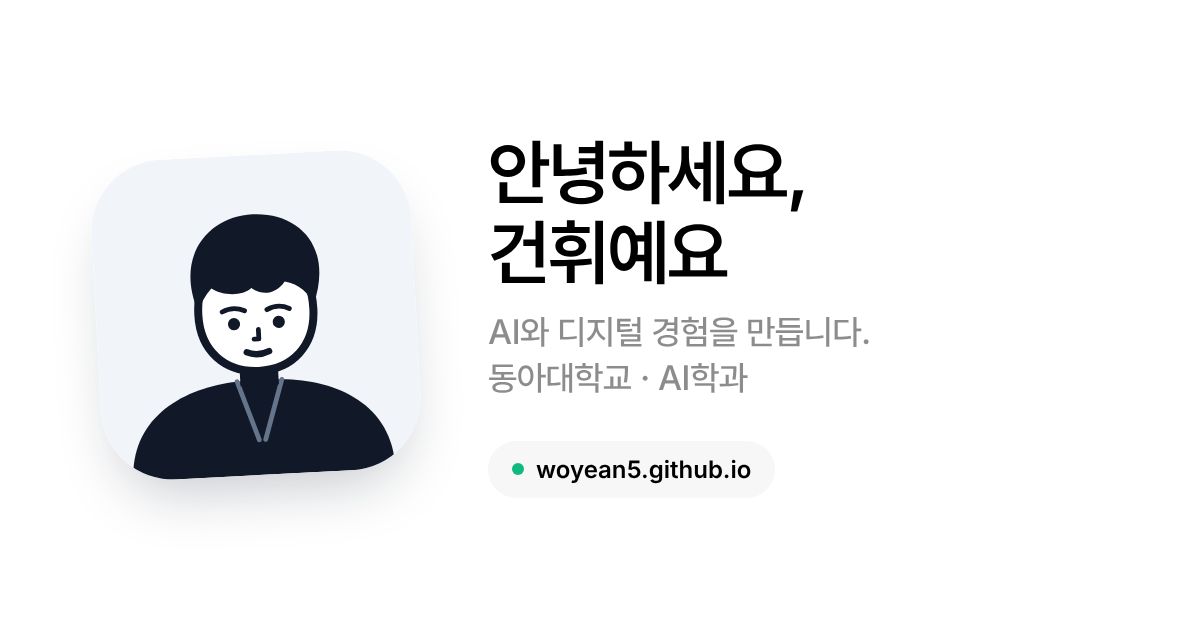
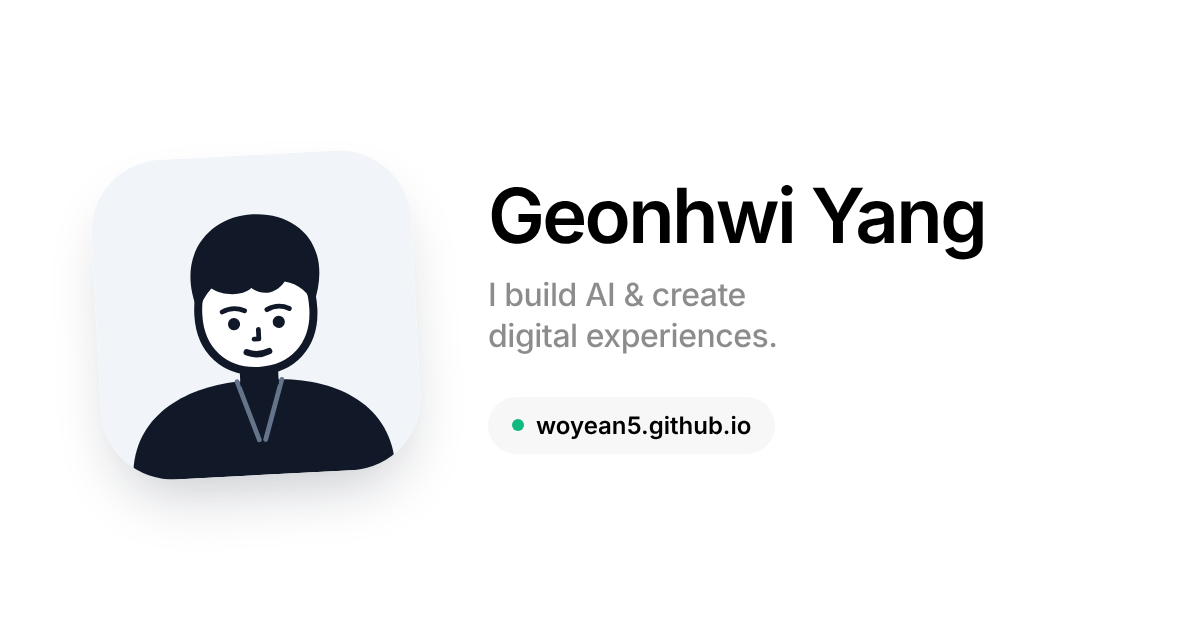
Restore the English link preview for the main page
Claude-Session: https://claude.ai/code/session_012kBGn4mQwwsHadXgffSdPU

Changed region(s): [[0.4008, 0.2111, 0.8325, 0.6333], [0.4317, 0.7238, 0.6475, 0.7841], [0.4317, 0.6635, 0.6475, 0.6937]]

diff --git a/index.html b/index.html
@@ -9,7 +9,7 @@
   <link rel="apple-touch-icon" href="apple-touch-icon.png">
   <meta name="description" content="Hi, I'm Geonhwi! I build intelligent AI systems and create user-centric digital experiences.">
   <meta property="og:title" content="Geonhwi Yang | Portfolio">
-  <meta property="og:description" content="동아대학교 AI학과 양건휘의 포트폴리오. AI와 디지털 경험을 만듭니다.">
+  <meta property="og:description" content="AI student at Dong-A University. Building AI systems and content.">
   <meta property="og:type" content="website">
   <meta property="og:url" content="https://woyean5.github.io/">
   <meta property="og:image" content="https://woyean5.github.io/og-image.png">
